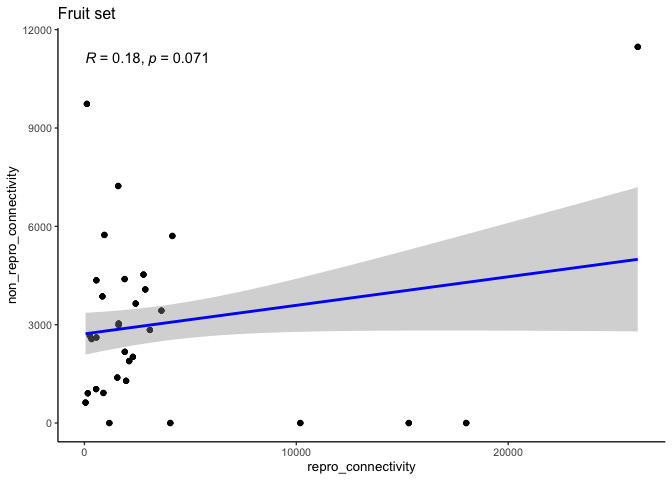
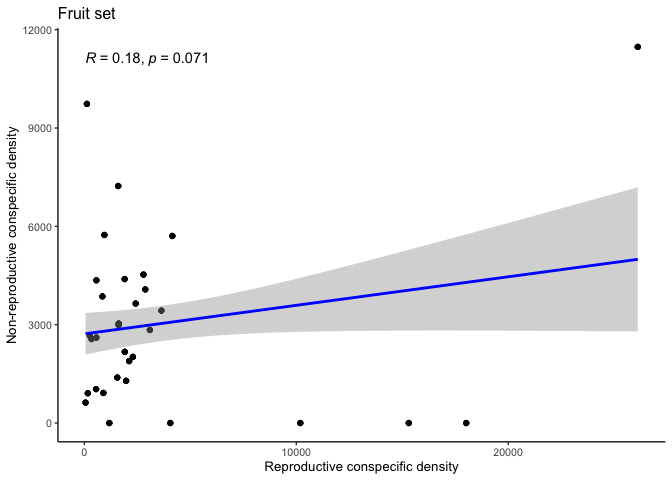
Create density-pairs

Changed region(s): [[0.0, 0.25, 0.0312, 0.7188], [0.375, 0.9688, 0.6875, 1.0]]

diff --git a/code/exploration/2024-02-16_density-pairs.md b/code/exploration/2024-02-16_density-pairs.md
@@ -1,12 +1,13 @@
 Conspecific density correlations?
 ================
 eleanorjackson
-19 February, 2024
+22 February, 2024
 
 ``` r
 library("tidyverse")
 library("here")
 library("ggpubr")
+library("patchwork")
 ```
 
 ``` r
@@ -16,7 +17,11 @@ readRDS(here::here("data", "clean", "fruit_drop_data.rds")) %>%
   ggpubr::stat_cor() +
   geom_smooth(method = "lm", 
               colour = "blue") +
-  labs(title = "Fruit set")
+  labs(title = "Fruit set",
+       x = "Reproductive conspecific density", 
+       y = "Non-reproductive conspecific density") -> p1
+
+p1
 ```
 
     ## `geom_smooth()` using formula = 'y ~ x'
@@ -53,7 +58,11 @@ readRDS(here::here("data", "clean", "fruit_drop_data_short.rds")) %>%
   ggpubr::stat_cor() +
   geom_smooth(method = "lm", 
               colour = "blue") +
-  labs(title = "Fruit drop (short)")
+  labs(title = "Fruit drop (short)",
+       x = "Reproductive conspecific density", 
+       y = "Non-reproductive conspecific density") -> p2
+
+p2
 ```
 
     ## `geom_smooth()` using formula = 'y ~ x'
@@ -90,7 +99,11 @@ readRDS(here::here("data", "clean", "fruit_drop_data.rds")) %>%
   ggpubr::stat_cor() +
   geom_smooth(method = "lm", 
               colour = "blue") +
-  labs(title = "Fruit drop (long)")
+  labs(title = "Fruit drop (long)",
+       x = "Reproductive conspecific density", 
+       y = "Non-reproductive conspecific density") -> p3
+
+p3
 ```
 
     ## `geom_smooth()` using formula = 'y ~ x'
@@ -119,3 +132,18 @@ readRDS(here::here("data", "clean", "fruit_drop_data.rds")) %>%
     ## Warning: Removed 12 rows containing missing values (`geom_point()`).
 
 ![](figures/2024-02-16_density-pairs/unnamed-chunk-6-1.png)<!-- -->
+
+Correlation coefficients of less than 0.2 are usually classed as “very
+weak to no correlation”.
+
+``` r
+p1 / p2 / p3 +
+  labs(x = "Reproductive conspecific density", 
+       y = "Non-reproductive conspecific density")
+```
+
+    ## `geom_smooth()` using formula = 'y ~ x'
+    ## `geom_smooth()` using formula = 'y ~ x'
+    ## `geom_smooth()` using formula = 'y ~ x'
+
+![](figures/2024-02-16_density-pairs/unnamed-chunk-7-1.png)<!-- -->
